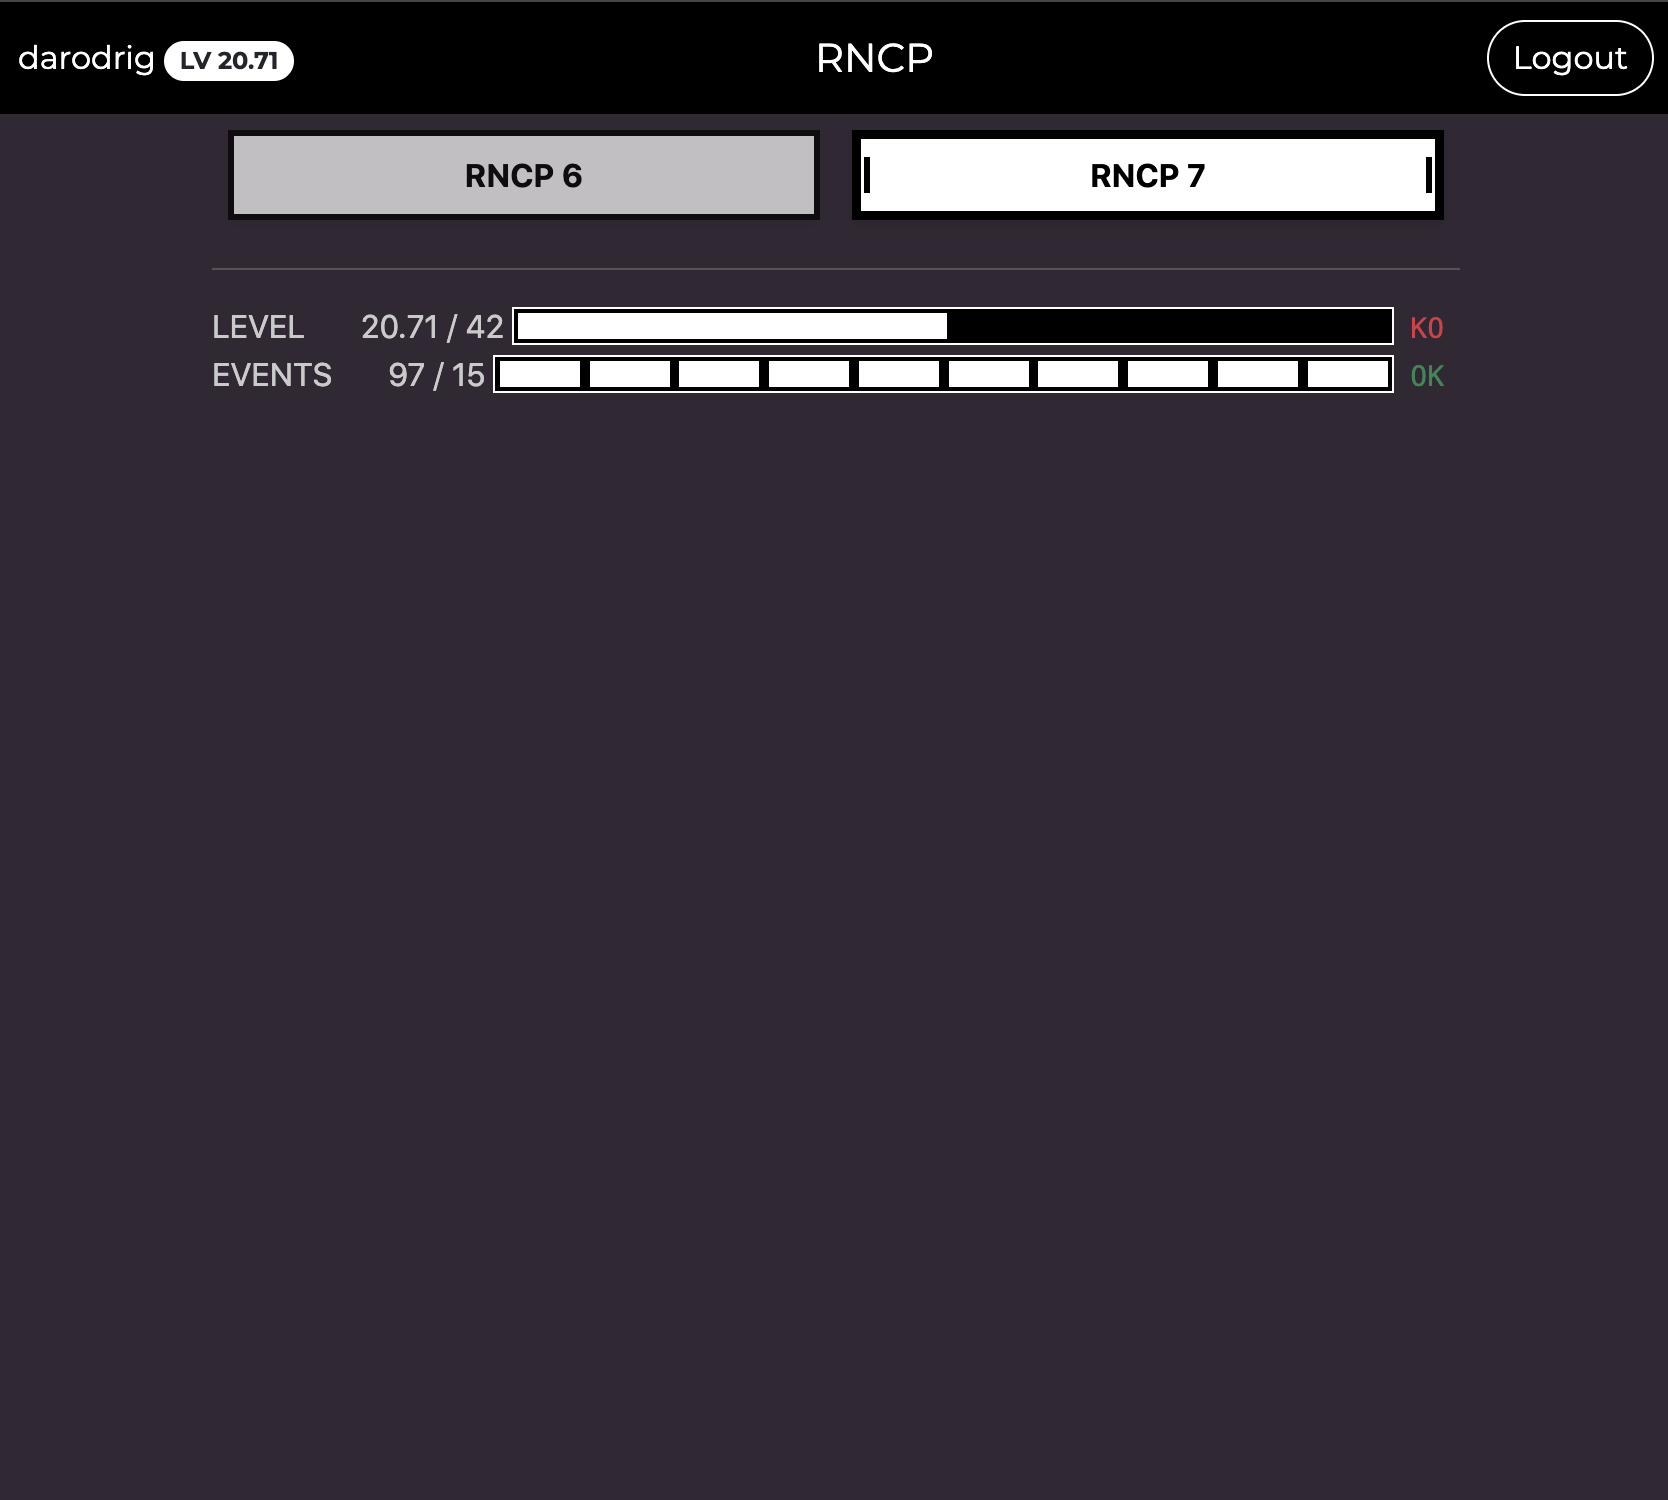
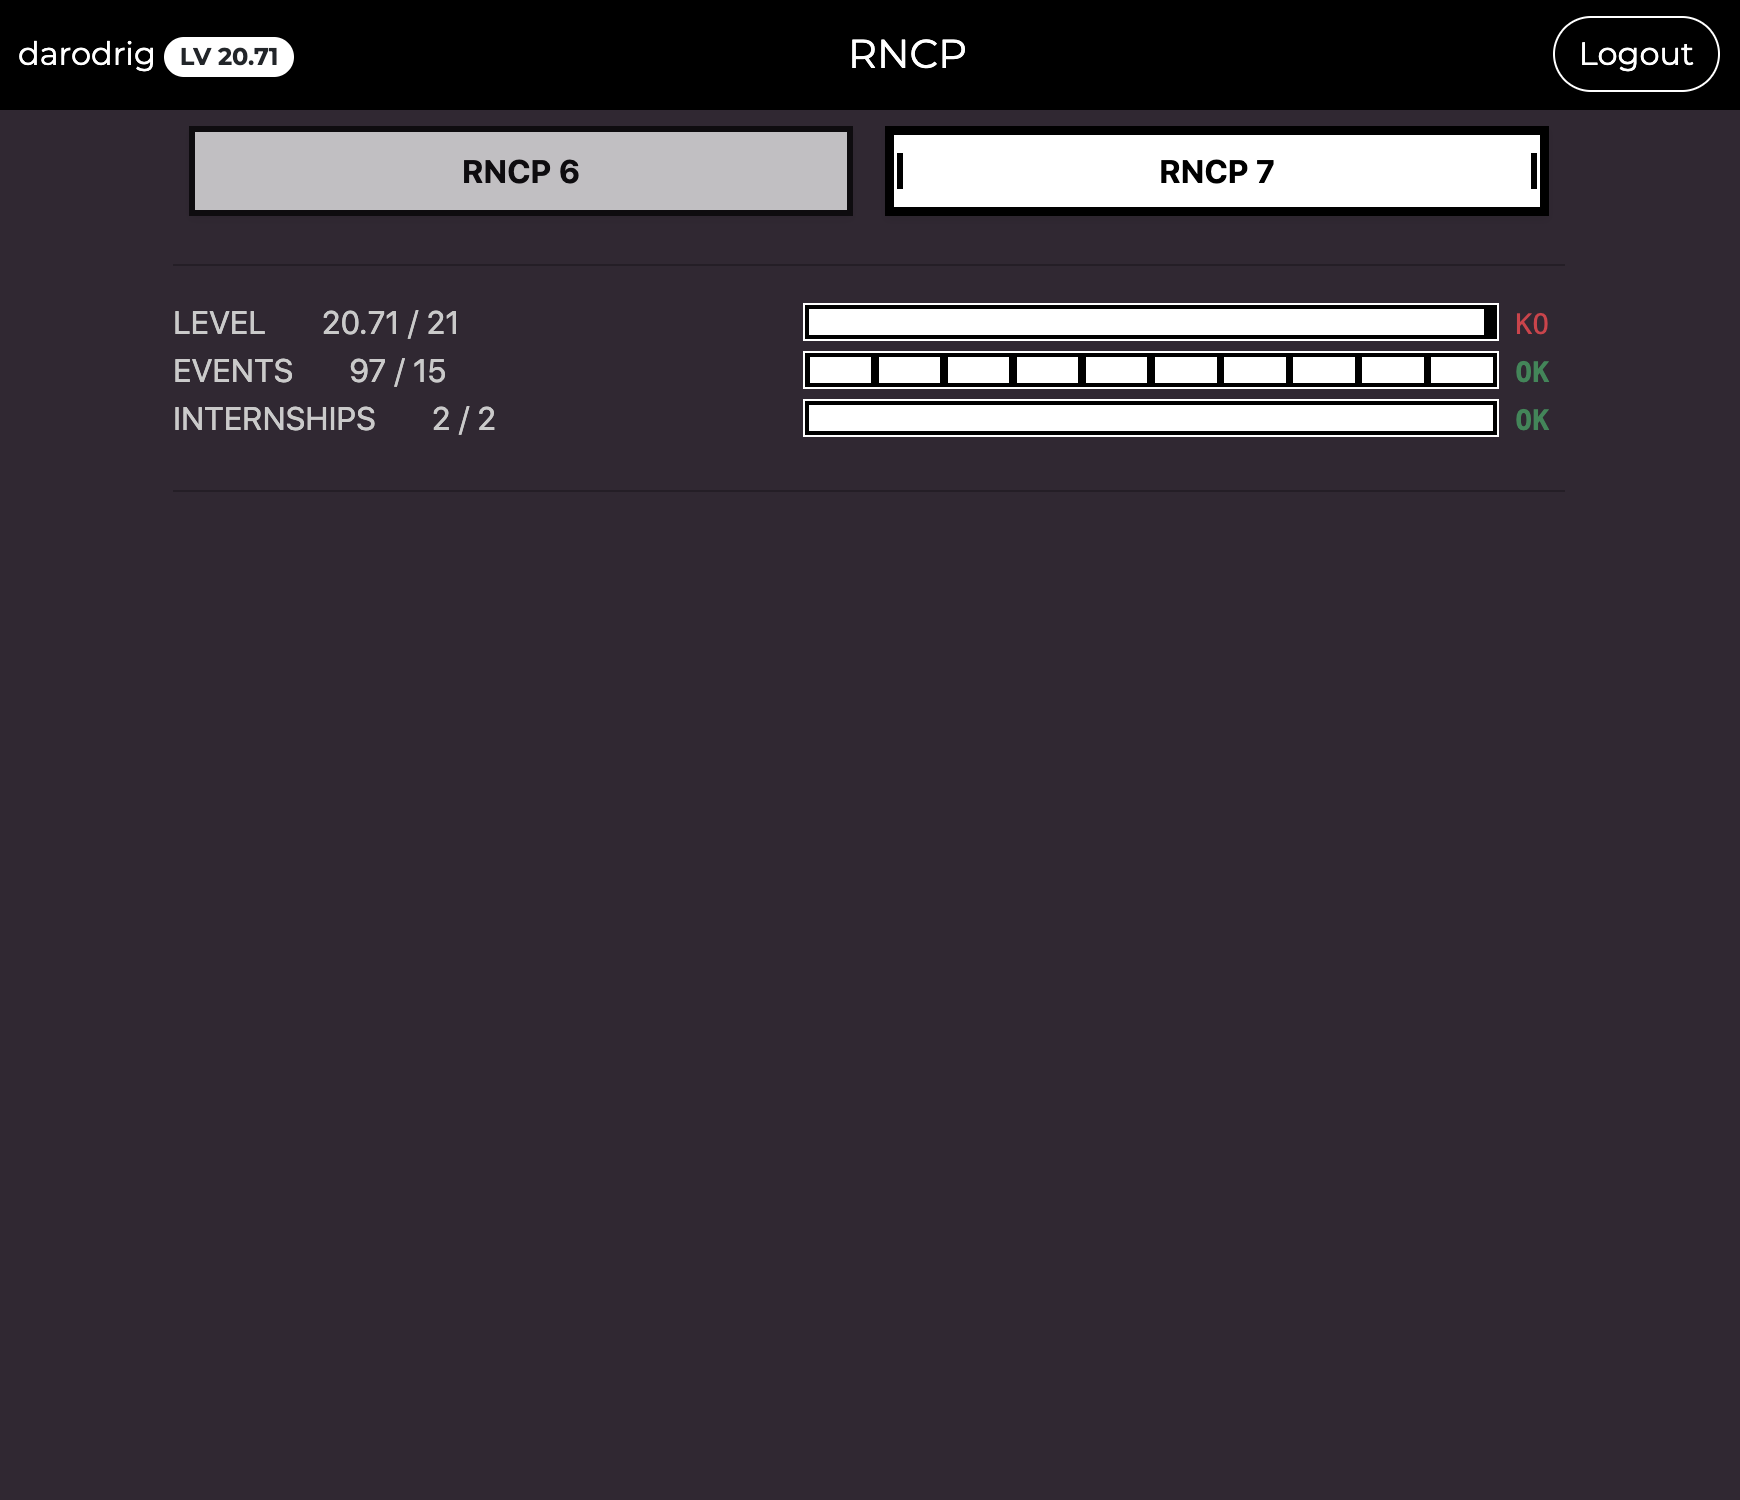
internships

Changed region(s): [[0.0935, 0.184, 0.9041, 0.3067], [0.0, 0.0, 0.9976, 0.1533]]

diff --git a/angular/src/app/path/path.component.html b/angular/src/app/path/path.component.html
@@ -1,27 +1,28 @@
-<div class="container-xs container-md px-md-5">
+<div class="container-xs container-md">
   <div class="d-flex flex-row w-100 align-items-evenly">
     <button class="rncp-level-button btn btn-white rounded-0 shadow shadow-sm w-50 m-2 bg-white text-black fw-bolder"
       [ngClass]="{'active': rncp==6}" (click)="setRNCP(6)">RNCP 6</button>
     <button class="rncp-level-button btn btn-white rounded-0 shadow shadow-sm w-50 m-2 bg-white text-black fw-bolder"
       [ngClass]="{'active': rncp==7}" (click)="setRNCP(7)">RNCP 7</button>
   </div>
-  <hr>
-  <div class="row">
-      <div class="d-flex align-items-center">
-        <div class="text-nowrap mr-auto me-4">LEVEL </div>
-        <div class="text-nowrap px-1">{{getLevel()}} / {{requiredLevel}}</div>
-        <app-progressbar class="w-75 ms-auto" [current]="getLevel()" [max]="requiredLevel "></app-progressbar>
-        <span *ngIf="getLevel()>=requiredLevel" class="py-0 px-2 ">
-          <code class="text-success">OK</code>
-        </span>
-        <span *ngIf="getLevel()<requiredLevel" class="py-0 px-2 rounded-pill">
-          <code class="text-danger">KO</code>
-        </span>
-      </div>
+  <hr class="text-black">
+  <div class="row mb-2">
+    <div class="d-flex align-items-center">
+      <div class="text-nowrap mr-auto me-4">LEVEL </div>
+      <div class="text-nowrap px-1">{{getLevel()}} / {{requiredLevel}}</div>
+      <app-progressbar class="w-50 ms-auto" [current]="getLevel()" [max]="requiredLevel "></app-progressbar>
+      <span *ngIf="getLevel()>=requiredLevel" class="py-0 px-2 ">
+        <code class="text-success fw-bold">OK</code>
+      </span>
+      <span *ngIf="getLevel()<requiredLevel" class="py-0 px-2 rounded-pill">
+        <code class="text-danger">KO</code>
+      </span>
+    </div>
     <div class="d-flex align-items-center">
       <div class="mr-auto me-4">EVENTS</div>
       <div class="text-nowrap px-1">{{events}} / {{requiredEvents}}</div>
-      <app-progressbar class="w-75 ms-auto" [discrete]="true" [current]="events" [min]="0" [max]="requiredEvents"></app-progressbar>
+      <app-progressbar class="w-50 ms-auto" [discrete]="true" [current]="events" [min]="0"
+        [max]="requiredEvents"></app-progressbar>
       <span *ngIf="events>=requiredEvents" class="py-0 px-2 ">
         <code class="text-success fw-bold">OK</code>
       </span>
@@ -29,5 +30,20 @@
         <code class="text-danger">KO</code>
       </span>
     </div>
+    <div class="d-flex align-items-center">
+      <div class="w-25 d-flex flex-nowrap">
+        <div class="mr-auto me-4">INTERNSHIPS</div>
+        <div class="text-nowrap px-1">{{internships}} / {{requiredInternships}}</div>
+      </div>
+      <app-progressbar class="w-50 ms-auto" [current]="internships" [min]="0"
+        [max]="requiredInternships"></app-progressbar>
+      <span *ngIf="internships>=requiredInternships" class="py-0 px-2 ">
+        <code class="text-success fw-bold">OK</code>
+      </span>
+      <span *ngIf="internships<requiredInternships" class="py-0 px-2 rounded-pill">
+        <code class="text-danger">KO</code>
+      </span>
+    </div>
   </div>
+  <hr class="mt-4 text-black">
 </div>

diff --git a/angular/src/app/services/auth.service.ts b/angular/src/app/services/auth.service.ts
@@ -53,6 +53,43 @@ export class AuthService {
     return 0;
   }
 
+  getInternships() {
+    // filters for projects_users where cursus_id is 21, in search for any intership
+    // {
+    //   "projects_users": [
+    //     {
+    //       "project": {
+    //         "name": "Internshipxx"
+    //       },
+    //       "validated?": true,
+    //       "cursus_ids": [21]
+    //     }
+    //   ]
+    // }
+
+    // Assuming 'this.me' is already populated with the user's data
+    const projects = this.me?.projects_users;
+
+    if (!projects) {
+      return []; // Return an empty array if there are no projects
+    }
+
+    const internships = projects.filter(projectUser =>
+      projectUser.cursus_ids.includes(21) &&
+      (projectUser.project.name.toLowerCase()==("internship i") || projectUser.project.name.toLowerCase() == ("internship ii")) &&
+      projectUser["validated?"] // Check if the project is validated
+    );
+
+    const internshipDetails = internships.map(projectUser => {
+      return {
+        name: projectUser.project.name,
+        validated: projectUser["validated?"]
+      };
+    });
+    return internshipDetails;
+  }
+
+
   getProfilePicture(): string | null {
     return this.me ? this.me.image_url : null;
   }
@@ -65,7 +102,6 @@ export class AuthService {
   }
 
   private loadInitialData(): void {
-    // Load token and user data from local storage on service initialization
     this.token = localStorage.getItem('access_token');
     const meData = localStorage.getItem('me');
     if (meData) this.me = JSON.parse(meData);
@@ -75,4 +111,6 @@ export class AuthService {
     const headers = { 'Authorization': `Bearer ${this.token}` };
     return this.http.get<CursusEvent[]>(`${this.api_url}/events?user_id=${this.me?.id}`, { headers });
   }
+
+
 }

diff --git a/angular/src/app/path/path.component.ts b/angular/src/app/path/path.component.ts
@@ -18,8 +18,11 @@ export class PathComponent implements OnInit {
   rncp: number = 6;
   requiredLevel: number = 17;
   requiredEvents: number = 10;
+  internships: number = 0;
+  requiredInternships : number = 2;
 
   constructor(private authService: AuthService, private router: Router) {
+    this.internships = this.authService.getInternships().length;
     this.authService.getEvents().subscribe((events:CursusEvent[]) => {
       console.log(events);
       this.events = events.length;
@@ -33,7 +36,7 @@ export class PathComponent implements OnInit {
 
   setRNCP(level: number) {
     this.rncp = level
-    this.requiredLevel = (level == 6) ? 17 : 42;
+    this.requiredLevel = (level == 6) ? 17 : 21;
     this.requiredEvents = (level == 6) ? 10 : 15;
   }
 

diff --git a/flask/app.py b/flask/app.py
@@ -62,6 +62,7 @@ def events():
     
     all_events = []
     page = 1
+    retries = 10
     while True:
         response = requests.get(
             f'https://api.intra.42.fr/v2/users/{user_id}/events',
@@ -69,12 +70,15 @@ def events():
             headers={'Authorization': token}
         )
         while response.status_code == 429:
-            sleep(.2)
+            retries -= 1
+            sleep(.5)
             response = requests.get(
                 f'https://api.intra.42.fr/v2/users/{user_id}/events',
                 params={'page': page},  # Assuming 'per_page' is supported
                 headers={'Authorization': token}
             )
+            if retries == 0:
+                return 'Too many retries', 429
         if response.status_code != 200:
             return response.json(), response.status_code
         

diff --git a/README.md b/README.md
@@ -1,2 +1,1 @@
-
 ![alt text](image.png)
